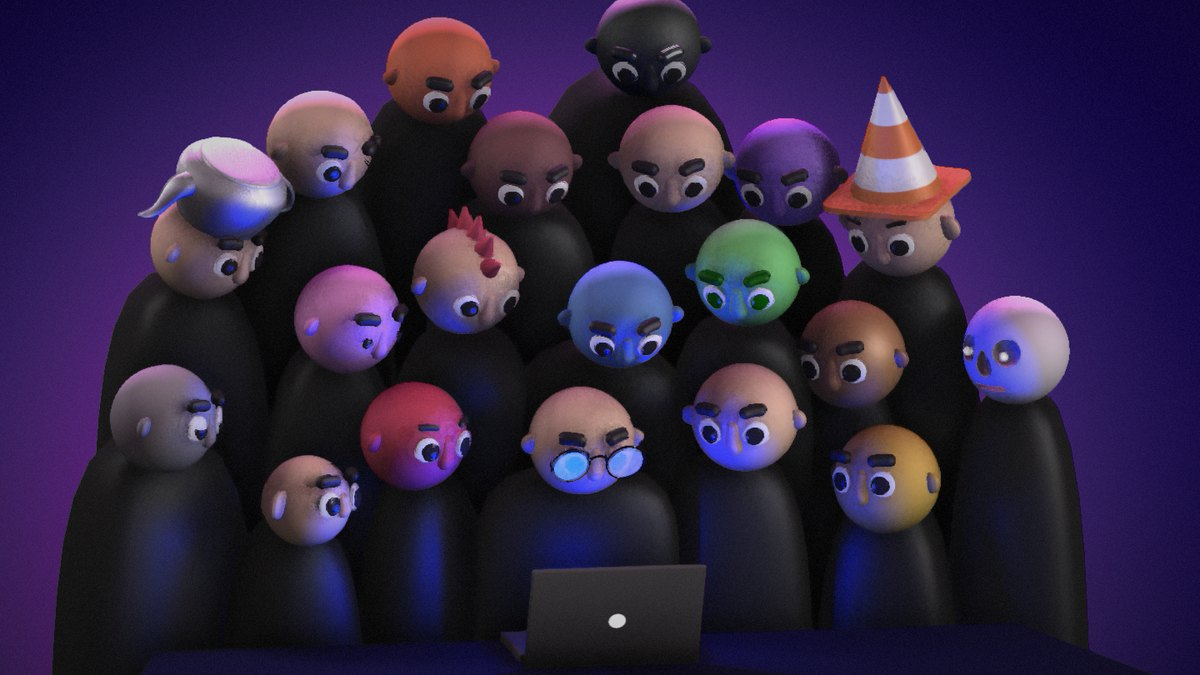
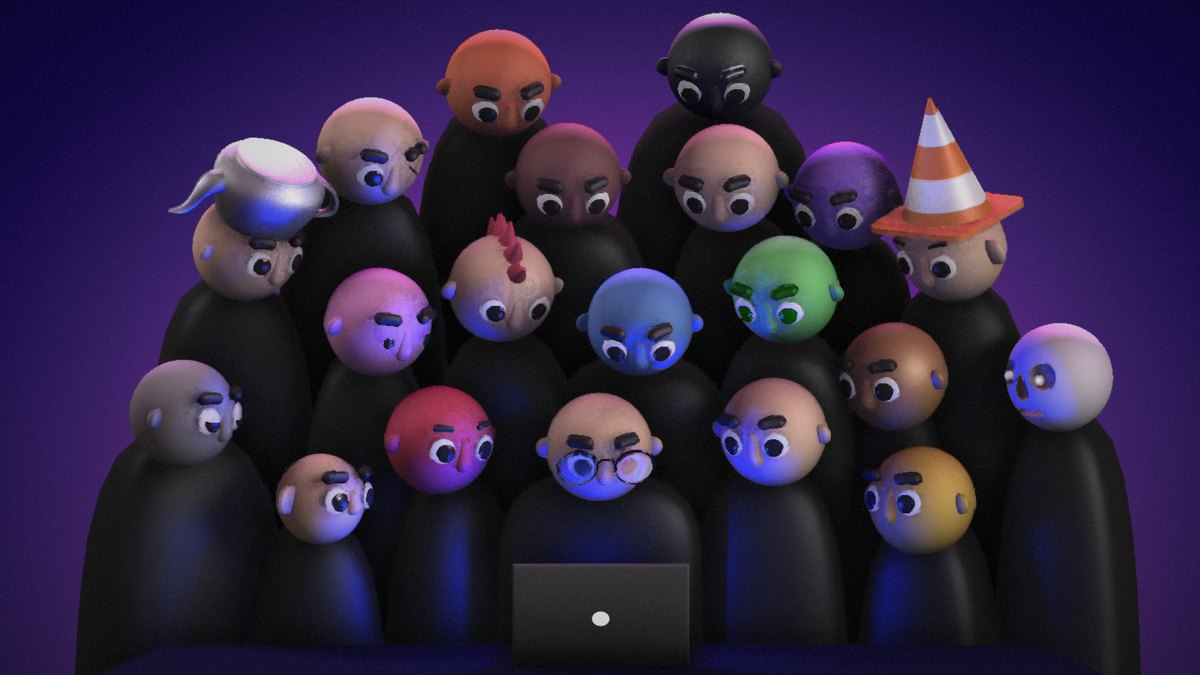
feat(site): add more 3D demos

diff --git a/assets/css/global.css b/assets/css/global.css
@@ -433,6 +433,25 @@ div.lazy {
     display: none;
 }
 
+.model-demo-page {
+    display: flex;
+    align-items: center;
+    justify-content: center;
+    padding: 1.5rem;
+}
+
+.model-demo-viewer {
+    display: block;
+    width: min(100%, 1180px);
+    height: calc(100vh - 8rem);
+    min-height: 620px;
+    border-radius: 0.9rem;
+    background:
+        radial-gradient(circle at 35% 22%, rgba(255, 255, 255, 0.16), transparent 28%),
+        linear-gradient(145deg, #e6edf2 0%, #cfdbe3 48%, #101722 49%, #070a10 100%);
+    box-shadow: 0 1rem 2.5rem rgba(0, 0, 0, 0.28);
+}
+
 @keyframes followers-loader-spin {
     to {
         transform: rotate(360deg);
@@ -447,6 +466,16 @@ div.lazy {
 
     .followers-scene {
         height: calc(100vh - 4.5rem);
+    }
+
+    .model-demo-page {
+        padding: 0.75rem;
+    }
+
+    .model-demo-viewer {
+        height: calc(100vh - 6rem);
+        min-height: calc(100vh - 6rem);
+        border-radius: 0.7rem;
     }
 }
 

diff --git a/_includes/model_demo.html b/_includes/model_demo.html
@@ -1,0 +1,20 @@
+<main class="animation-page model-demo-page" aria-label="{{ include.label | default: page.title }}">
+    <model-viewer
+        class="model-demo-viewer"
+        src="{{ page.model_src | relative_url }}"
+        alt="{{ include.label | default: page.title }}"
+        camera-controls
+        auto-rotate
+        {% if page.model_camera_orbit %}camera-orbit="{{ page.model_camera_orbit }}"{% endif %}
+        {% if page.model_camera_target %}camera-target="{{ page.model_camera_target }}"{% endif %}
+        {% if page.model_field_of_view %}field-of-view="{{ page.model_field_of_view }}"{% endif %}
+        {% if page.model_scale %}scale="{{ page.model_scale }}"{% endif %}
+        interaction-prompt="none"
+        shadow-intensity="0.75"
+        exposure="{{ page.model_exposure | default: 1 }}"
+        environment-image="neutral"
+        ar>
+    </model-viewer>
+</main>
+
+<script type="module" src="https://unpkg.com/@google/model-viewer@4.1.0/dist/model-viewer.min.js"></script>

diff --git a/animation-100-followers.html b/animation-100-followers.html
@@ -4,23 +4,7 @@ title: 100 Followers
 navbar_title: 3D Demo
 permalink: /animation/100-followers/
 container_class: container-fluid px-0
+spline_scene: /assets/spline/100-followers/scene.splinecode
 ---
 
-<main class="animation-page" aria-label="Interactive 100 followers animation">
-    <div
-        id="followers-scene"
-        class="followers-scene"
-        data-scene-url="{{ '/assets/spline/100-followers/scene.splinecode' | relative_url }}">
-        <canvas id="followers-canvas" aria-label="Interactive 3D animation"></canvas>
-        <div class="followers-loader" aria-hidden="true"></div>
-    </div>
-</main>
-
-<script type="importmap">
-{
-    "imports": {
-        "@splinetool/runtime": "https://unpkg.com/@splinetool/runtime@1.12.97/build/runtime.js"
-    }
-}
-</script>
-<script type="module" src="{{ '/assets/js/spline_demo.js' | relative_url }}"></script>
+{% include spline_demo.html label="Interactive 100 followers animation" %}

diff --git a/animation-nexbot.html b/animation-nexbot.html
@@ -4,23 +4,7 @@ title: Nexbot
 navbar_title: 3D Demo
 permalink: /animation/nexbot/
 container_class: container-fluid px-0
+spline_scene: /assets/spline/nexbot/scene.splinecode
 ---
 
-<main class="animation-page" aria-label="Interactive Nexbot animation">
-    <div
-        id="followers-scene"
-        class="followers-scene"
-        data-scene-url="{{ '/assets/spline/nexbot/scene.splinecode' | relative_url }}">
-        <canvas id="followers-canvas" aria-label="Interactive 3D animation"></canvas>
-        <div class="followers-loader" aria-hidden="true"></div>
-    </div>
-</main>
-
-<script type="importmap">
-{
-    "imports": {
-        "@splinetool/runtime": "https://unpkg.com/@splinetool/runtime@1.12.97/build/runtime.js"
-    }
-}
-</script>
-<script type="module" src="{{ '/assets/js/spline_demo.js' | relative_url }}"></script>
+{% include spline_demo.html label="Interactive Nexbot animation" %}

diff --git a/_includes/spline_demo.html b/_includes/spline_demo.html
@@ -1,0 +1,18 @@
+<main class="animation-page" aria-label="{{ include.label | default: page.title }}">
+    <div
+        id="followers-scene"
+        class="followers-scene"
+        data-scene-url="{{ page.spline_scene | relative_url }}">
+        <canvas id="followers-canvas" aria-label="Interactive 3D animation"></canvas>
+        <div class="followers-loader" aria-hidden="true"></div>
+    </div>
+</main>
+
+<script type="importmap">
+{
+    "imports": {
+        "@splinetool/runtime": "https://unpkg.com/@splinetool/runtime@1.12.97/build/runtime.js"
+    }
+}
+</script>
+<script type="module" src="{{ '/assets/js/spline_demo.js' | relative_url }}"></script>

diff --git a/animation-cyber-mannequin.html b/animation-cyber-mannequin.html
@@ -1,0 +1,14 @@
+---
+layout: default
+title: Cyber Mannequin
+navbar_title: 3D Demo
+permalink: /animation/cyber-mannequin/
+container_class: container-fluid px-0
+model_src: /assets/models/cyber-mannequin/cyber-mannequin.glb
+model_camera_orbit: 25deg 68deg 0.45m
+model_camera_target: 0m 0.7m 0m
+model_field_of_view: 16deg
+model_exposure: 1.15
+---
+
+{% include model_demo.html label="Interactive cyber mannequin model" %}

diff --git a/animation-robot.html b/animation-robot.html
@@ -1,0 +1,14 @@
+---
+layout: default
+title: Robot Model
+navbar_title: 3D Demo
+permalink: /animation/robot/
+container_class: container-fluid px-0
+model_src: /assets/models/robot/robot.glb
+model_camera_orbit: 25deg 72deg 1.4m
+model_camera_target: 0m 0.35m 0m
+model_field_of_view: 24deg
+model_exposure: 1.15
+---
+
+{% include model_demo.html label="Interactive robot model" %}

diff --git a/animation-3d-city-navigation.html b/animation-3d-city-navigation.html
@@ -1,0 +1,10 @@
+---
+layout: default
+title: 3D City Navigation
+navbar_title: 3D Demo
+permalink: /animation/3d-city-navigation/
+container_class: container-fluid px-0
+spline_scene: /assets/spline/3d-city-navigation/scene.splinecode
+---
+
+{% include spline_demo.html label="Interactive 3D city navigation animation" %}

diff --git a/animation-3d-spotify-vision-pro.html b/animation-3d-spotify-vision-pro.html
@@ -1,0 +1,10 @@
+---
+layout: default
+title: 3D Spotify Vision Pro
+navbar_title: 3D Demo
+permalink: /animation/3d-spotify-vision-pro/
+container_class: container-fluid px-0
+spline_scene: /assets/spline/3d-spotify-vision-pro/scene.splinecode
+---
+
+{% include spline_demo.html label="Interactive 3D Spotify Vision Pro animation" %}

diff --git a/animation-ai-data-model.html b/animation-ai-data-model.html
@@ -1,0 +1,10 @@
+---
+layout: default
+title: AI Data Model
+navbar_title: 3D Demo
+permalink: /animation/ai-data-model/
+container_class: container-fluid px-0
+spline_scene: /assets/spline/ai-data-model/scene.splinecode
+---
+
+{% include spline_demo.html label="Interactive AI data model animation" %}

diff --git a/animation-ai.html b/animation-ai.html
@@ -1,0 +1,10 @@
+---
+layout: default
+title: AI
+navbar_title: 3D Demo
+permalink: /animation/ai/
+container_class: container-fluid px-0
+spline_scene: /assets/spline/ai/scene.splinecode
+---
+
+{% include spline_demo.html label="Interactive AI animation" %}

diff --git a/animation-minecraft-world.html b/animation-minecraft-world.html
@@ -1,0 +1,10 @@
+---
+layout: default
+title: Minecraft World
+navbar_title: 3D Demo
+permalink: /animation/minecraft-world/
+container_class: container-fluid px-0
+spline_scene: /assets/spline/minecraft-world/scene.splinecode
+---
+
+{% include spline_demo.html label="Interactive Minecraft world animation" %}